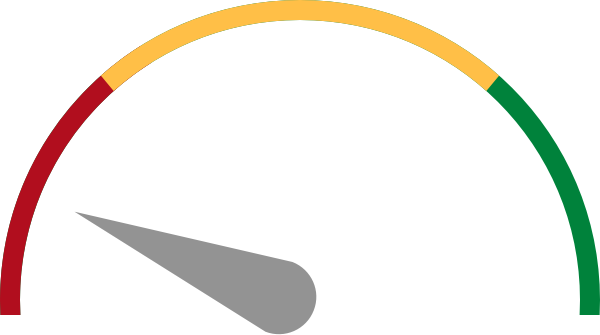
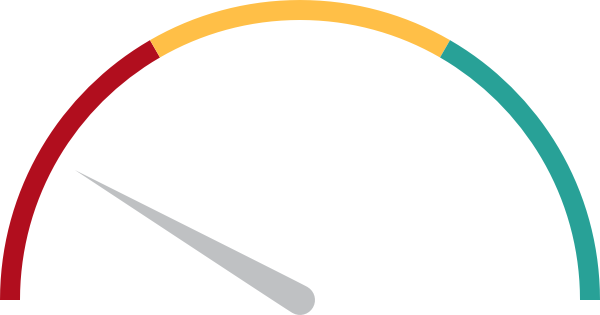
Update `dial-gauge` styling and markup
- Update with new `dial-gauge` graphics
- Update styling for responsive views

diff --git a/views/prototype/photo/check-and-submit-failed-photo.html b/views/prototype/photo/check-and-submit-failed-photo.html
@@ -23,6 +23,40 @@
 {{<hmpo-partials-form}}
 {{$form}}
 
+<style>
+    #result-dial-gauge {
+        margin-top: 5px;
+        max-width: 190px;
+    }
+    @media (min-width: 769px) {
+        #result-dial-gauge {
+            max-width: 100%;
+        }
+    }
+    .result-poor {
+        color: #b10e1e;
+    }
+    .result-okay {
+        color: #ffbf47;
+    }
+    .result-good {
+        color: #28a197;
+    }
+    .result-text {
+        font-size: 32px;
+        font-weight: 600;
+        text-transform: uppercase;
+        margin-bottom: 20px;
+        max-width: 190px;
+        text-align: center;
+    }
+    @media (min-width: 769px) {
+        .result-text {
+            margin-bottom: 30px;
+        }
+    }
+</style>
+
 <div class="photo-preview">
     <div class="photo-preview-inner">
         <h2 class="heading-medium">Your photo</h2>
@@ -51,17 +85,12 @@
     <h2 style="padding: 0 15px;">Result</h2>
 
     <div class="column-one-third">
-        <!-- <div class="panel panel-border-wide" style="border-color: #b10e1e;">
-            <p>Poor</p>
-        </div> -->
-        <!-- <p style="font-size: 32px; font-weight: 600; text-transform: uppercase; color: #b10e1e; margin-bottom: 20px;">Poor</p> -->
-        <p style="font-size: 32px; font-weight: 600; text-transform: uppercase; color: #b10e1e; margin-bottom: 20px;">Poor</p>
-
-        <img src="../../../public/images/photo/dial-gauge-poor.png" width="150">
+        <img id="result-dial-gauge" src="../../../public/images/photo/dial-gauge-poor.png">
+        <p class="result-poor result-text">Poor</p>
     </div>
 
     <div class="column-two-thirds">
-        <p style="margin-top: 15px;">Your photo doesn't meet all the rules and is unlikely to be suitable for a new passport.</p>
+        <p style="margin-top: 15px;">Your photo doesn’t meet all the rules and is unlikely to be suitable for a new passport.</p>
         <details>
             <summary><span class="summary">What’s affecting this result?</span></summary>
             <div class="panel panel-border-narrow">
@@ -77,8 +106,7 @@
 
     <!-- <hr style="margin-left: 15px; margin-right: 15px; min-width: 1px;"> -->
 </div>
-<br>
-<br>
+
 {{#input-submit}}{{/input-submit}}
 
 <div class="panel panel-border-wide">

diff --git a/views/prototype/photo/check-and-submit-okay-photo.html b/views/prototype/photo/check-and-submit-okay-photo.html
@@ -23,6 +23,40 @@
 {{<hmpo-partials-form}}
 {{$form}}
 
+<style>
+    #result-dial-gauge {
+        margin-top: 5px;
+        max-width: 190px;
+    }
+    @media (min-width: 769px) {
+        #result-dial-gauge {
+            max-width: 100%;
+        }
+    }
+    .result-poor {
+        color: #b10e1e;
+    }
+    .result-okay {
+        color: #ffbf47;
+    }
+    .result-good {
+        color: #28a197;
+    }
+    .result-text {
+        font-size: 32px;
+        font-weight: 600;
+        text-transform: uppercase;
+        margin-bottom: 20px;
+        max-width: 190px;
+        text-align: center;
+    }
+    @media (min-width: 769px) {
+        .result-text {
+            margin-bottom: 30px;
+        }
+    }
+</style>
+
 <div class="photo-preview">
     <div class="photo-preview-inner">
         <h2 class="heading-medium">Your photo</h2>
@@ -51,13 +85,8 @@
     <h2 style="padding: 0 15px;">Result</h2>
 
     <div class="column-one-third">
-        <!-- <div class="panel panel-border-wide" style="border-color: #b10e1e;">
-            <p>Poor</p>
-        </div> -->
-        <!-- <p style="font-size: 32px; font-weight: 600; text-transform: uppercase; color: #b10e1e; margin-bottom: 20px;">Poor</p> -->
-        <p style="font-size: 32px; font-weight: 600; text-transform: uppercase; color: #ffbf47; margin-bottom: 20px;">Okay</p>
-
-        <img src="../../../public/images/photo/dial-gauge-okay.png" width="150">
+        <img id="result-dial-gauge" src="../../../public/images/photo/dial-gauge-okay.png">
+        <p class="result-okay result-text">Okay</p>
     </div>
 
     <div class="column-two-thirds">
@@ -79,8 +108,7 @@
 
     <!-- <hr style="margin-left: 15px; margin-right: 15px; min-width: 1px;"> -->
 </div>
-<br>
-<br>
+
 {{#input-submit}}{{/input-submit}}
 
 <div class="panel panel-border-wide">

diff --git a/views/prototype/photo/check-and-submit-passed-photo.html b/views/prototype/photo/check-and-submit-passed-photo.html
@@ -23,6 +23,40 @@
 {{<hmpo-partials-form}}
 {{$form}}
 
+<style>
+    #result-dial-gauge {
+        margin-top: 5px;
+        max-width: 190px;
+    }
+    @media (min-width: 769px) {
+        #result-dial-gauge {
+            max-width: 100%;
+        }
+    }
+    .result-poor {
+        color: #b10e1e;
+    }
+    .result-okay {
+        color: #ffbf47;
+    }
+    .result-good {
+        color: #28a197;
+    }
+    .result-text {
+        font-size: 32px;
+        font-weight: 600;
+        text-transform: uppercase;
+        margin-bottom: 20px;
+        max-width: 190px;
+        text-align: center;
+    }
+    @media (min-width: 769px) {
+        .result-text {
+            margin-bottom: 30px;
+        }
+    }
+</style>
+
 <div class="photo-preview">
     <div class="photo-preview-inner">
         <h2 class="heading-medium">Your photo</h2>
@@ -51,13 +85,8 @@
     <h2 style="padding: 0 15px;">Result</h2>
 
     <div class="column-one-third">
-        <!-- <div class="panel panel-border-wide" style="border-color: #b10e1e;">
-            <p>Poor</p>
-        </div> -->
-        <!-- <p style="font-size: 32px; font-weight: 600; text-transform: uppercase; color: #b10e1e; margin-bottom: 20px;">Poor</p> -->
-        <p style="font-size: 32px; font-weight: 600; text-transform: uppercase; color: #28a197; margin-bottom: 20px;">Good</p>
-
-        <img src="../../../public/images/photo/dial-gauge-good.png" width="150">
+        <img id="result-dial-gauge" src="../../../public/images/photo/dial-gauge-good.png">
+        <p class="result-good result-text">Good</p>
     </div>
 
     <div class="column-two-thirds">
@@ -87,8 +116,7 @@
 
     <!-- <hr style="margin-left: 15px; margin-right: 15px; min-width: 1px;"> -->
 </div>
-<br>
-<br>
+
 {{#input-submit}}{{/input-submit}}
 
 <div class="panel panel-border-wide">

diff --git a/views/prototype/photo/declaration-failed-photo.html b/views/prototype/photo/declaration-failed-photo.html
@@ -147,7 +147,7 @@
 </div> -->
 
 <div class="panel panel-border-wide">
-    <p>If your photo doesn't meet the rules you may have problems with your application or when you travel.</p>
+    <p>If your photo doesn’t meet the rules you may have problems with your application or when you travel.</p>
 </div>
 
 <div id="oix-override-group" class="form-group">
@@ -157,12 +157,12 @@
         </legend>
         <h3>You can only use this photo if you:</h3>
         <ul class="list list-bullet">
-            <li>have a medical or religious reason why it doesn't meet the rules</li>
+            <li>have a medical or religious reason why it doesn’t meet the rules</li>
             <li>think it meets all the rules</li>
         </ul>
         <label class="block-label selected" for="oix-override-true">
             <input type="radio" name="oix-override" id="oix-override-true" value="true" required="true" data-toggle="oix-override" aria-controls="oix-override" aria-expanded="true">
-            Yes, I understand - submit this photo
+            Yes, I understand &ndash; submit this photo
         </label>
 
         <div class="panel panel-border-narrow js-hidden" id="oix-override" style="margin-top:10px; margin-bottom:0px;">

diff --git a/views/prototype/photo/declaration-okay-photo.html b/views/prototype/photo/declaration-okay-photo.html
@@ -148,7 +148,7 @@
 </div> -->
 
 <div class="panel panel-border-wide">
-    <p>If your photo doesn't meet the rules you may have problems with your application or when you travel.</p>
+    <p>If your photo doesn’t meet the rules you may have problems with your application or when you travel.</p>
 </div>
 
 <div id="oix-override-group" class="form-group">
@@ -158,12 +158,12 @@
         </legend>
         <h3>You can only use this photo if you:</h3>
         <ul class="list list-bullet">
-            <li>have a medical or religious reason why it doesn't meet the rules</li>
+            <li>have a medical or religious reason why it doesn’t meet the rules</li>
             <li>think it meets all the rules</li>
         </ul>
         <label class="block-label selected" for="oix-override-true">
             <input type="radio" name="oix-override" id="oix-override-true" value="true" required="true" data-toggle="oix-override" aria-controls="oix-override" aria-expanded="true">
-            Yes, I understand - submit this photo
+            Yes, I understand &ndash; submit this photo
         </label>
 
         <div class="panel panel-border-narrow js-hidden" id="oix-override" style="margin-top:10px; margin-bottom:0px;">

diff --git a/views/prototype/photo/declaration-passed-photo.html b/views/prototype/photo/declaration-passed-photo.html
@@ -104,7 +104,7 @@
 </ol>
 
 <div class="panel panel-border-wide">
-    <p>If your photo doesn't meet the rules you may have problems with your application or when you travel.</p>
+    <p>If your photo doesn’t meet the rules you may have problems with your application or when you travel.</p>
 </div>
 
 <!-- <h2>Do you want to submit this photo?</h2> -->
